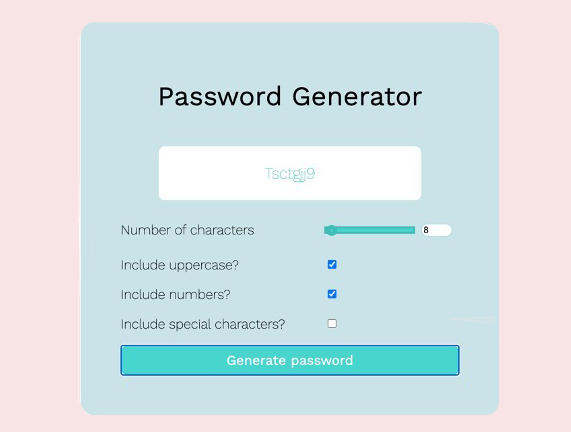
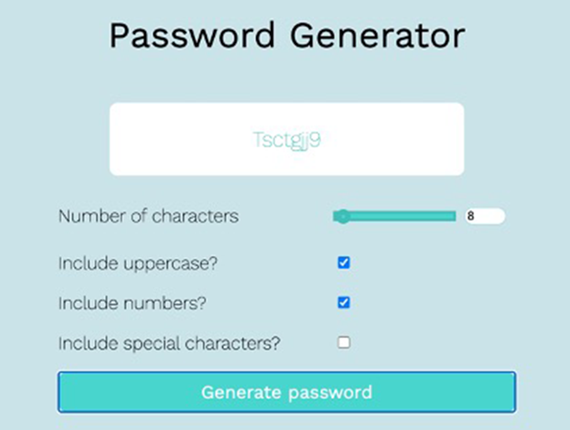
files: Add README generator to list of GitHub projects. style: Add subtle shadow to image tiles on GitHub and Tech Writing pages. Make other design tweaks, such as changing max height to accommodate text overflow.

diff --git a/github.html b/github.html
@@ -91,10 +91,10 @@
 			<div class="row">
 				<div class="col-sm-4">
 					<p>
-						<a href="https://melissakinsey.github.io/Quarantinis/">
+						<a href="[YouTube Demo](https://youtu.be/GyL4_CRJC34)">
 							<img
 								src="assets/quarantinis.png"
-								class="img-responsive"
+								class="img-blue img-responsive"
 								style="width: 100%"
 								alt="Screenshot of Quarantinis website"
 							/>Quarantinis
@@ -106,7 +106,7 @@
 						<a href="https://melissakinsey.github.io/weather-api/"
 							><img
 								src="assets/weather-api-dashboard.png"
-								class="img-responsive"
+								class="img-pink img-responsive"
 								style="width: 100%"
 								alt="Screenshot of weather dashboard"
 							/>Weather Dashboard
@@ -119,13 +119,55 @@
 							href="https://melissakinsey.github.io/password-generator/"
 							><img
 								src="assets/password-generator.png"
-								class="img-responsive"
+								class="img-blue img-responsive"
 								style="width: 100%"
 								alt="Screenshot of password generator"
 							/>Password Generator
 						</a>
 					</p>
 				</div>
+			</div>
+		</div>
+		<!--CONTAINER-3-->
+		<div class="container-fluid bg-3 text-center">
+			<div class="row">
+				<div class="col-sm-4">
+					<p>
+						<a href="samples/README-sample.md">
+							<img
+								src="assets/readme-generator.png"
+								class="img-blue img-responsive"
+								style="width: 100%"
+								alt="Screenshot of a README document"
+							/>README Generator
+						</a>
+					</p>
+				</div>
+				<!-- <div class="col-sm-4">
+					<p>
+						<a href="""
+							><img
+								src="assets/"
+								class="img-responsive"
+								style="width: 100%"
+								alt=""
+							/>Name of App
+						</a>
+					</p>
+				</div>
+				<div class="col-sm-4">
+					<p>
+						<a
+							href="""
+							><img
+								src="assets/"
+								class="img-responsive"
+								style="width: 100%"
+								alt=""
+							/>Name of App
+						</a>
+					</p>
+				</div> -->
 			</div>
 		</div>
 

diff --git a/tech.html b/tech.html
@@ -30,8 +30,7 @@
 	rel="shortcut icon"
 	type="image/png"
 	img
-	src="assets/piggy-bank-favicon.png"
-	/>
+	src="assets/piggy-bank-favicon.png"/>
 	<!--Viewport Dimensions-->
 	<meta name="viewport" content="width=device-width, initial-scale=1.0" />
 	
@@ -64,7 +63,7 @@
 						<a href="samples/ordering-process.pdf">
 							<img
 							src="assets/ordering-process-screenshot.png"
-							class="img-responsive"
+							class="img-pink img-responsive"
 							style="width: 100%"
 							alt="Steps in the ordering process"
 							/>Steps in the Ordering Process
@@ -76,7 +75,7 @@
 						<a href="samples/authentication-authorization.pdf"
 						><img
 						src="assets/Oauth-screenshot.png"
-						class="img-responsive"
+						class="img-blue img-responsive"
 						style="width: 100%"
 						alt="OAuth process diagram"
 						/>Authentication and Authorization
@@ -88,7 +87,7 @@
 					<a href="samples/products-discounts.pdf"
 					><img
 					src="assets/prices-screenshot.png"
-					class="img-responsive"
+					class="img-blue img-responsive"
 					style="width: 100%"
 					alt="Excerpt from writing sample"
 					/>Products and Discounts
@@ -107,7 +106,7 @@
 				<a href="samples/Quarantinis-README.md">
 					<img
 					src="assets/quarantinis-readme.png"
-					class="img-responsive"
+					class="img-blue img-responsive"
 					style="width: 100%"
 					alt="Screenshot of Quarantinis website"
 					/>Quarantinis README.md
@@ -119,7 +118,7 @@
 				<a href="samples/documentation-plan.pdf"
 				><img
 				src="assets/doc-plan.png"
-				class="img-responsive"
+				class="img-blue img-responsive"
 				style="width: 100%"
 				alt="Vintage farming field guides"
 				/>Digital Farming API Doc Plan
@@ -131,7 +130,7 @@
 			<a href="samples/rest-apis.pdf"
 			><img
 			src="assets/yaml.png"
-			class="img-responsive"
+			class="img-pink img-responsive"
 			style="width: 100%"
 			alt="Screenshot of password generator"
 			/>What Is a REST API, Anyway?

diff --git a/style.css b/style.css
@@ -1,6 +1,6 @@
 body {
 	height: 100%;
-	min-height: 1000px;
+	min-height: 1200px;
 	min-width: 400px;
 	margin-right: -10px;
 	margin-left: -10px;
@@ -151,25 +151,23 @@ div.jumbotron {
 }
 
 div.jumbotron#portfolio {
-	max-height: 250px;
 	padding-top: 3%;
 	padding-bottom: 3%;
 }
 
 p {
 	font-family: "Red Rose", cursive;
-	line-height: 1em;
+	line-height: 1.25em;
 	color: black;
 	font-size: 1rem;
 	max-width: 400px;
-	max-height: 350px;
 	align-content: center;
 	text-align: center;
 	margin: 0px 0px 0px 0px;
 }
 
 div.jumbotron#portfolio p {
-	line-height: 1.5rem;
+	line-height: 1.25rem;
 }
 
 p#jumbotron {
@@ -177,6 +175,7 @@ p#jumbotron {
 	align-items: center;
 	margin-bottom: 0;
 }
+
 div.jumbotron {
 	font-family: "Red Rose", cursive;
 	background-color: #f8e4e4;
@@ -215,16 +214,20 @@ div.piggy {
 }
 
 img {
-	padding-top: 0.25px;
-	padding-bottom: 2rem;
 	border-radius: 35px 35px 35px 35px;
 }
 
 img.img-responsive {
-	padding: 0.25rem 0rem 0.75rem 0rem;
-	border-radius: 35px 35px 35px 35px;
 	margin-bottom: 1rem;
-	max-height: 50%;
+	border-radius: 35px 35px 35px 35px;
+}
+
+img.img-blue {
+	filter: drop-shadow(0 0 0.15rem #a0d6c3);
+}
+
+img.img-pink {
+	filter: drop-shadow(0 0 0.15rem #bc8e8e);
 }
 
 #bank {

diff --git a/samples/README-sample.md b/samples/README-sample.md
@@ -1,0 +1,80 @@
+
+	
+![readme-header](assets/readme-header.png)
+	
+[![stars - readme-generator](https://img.shields.io/github/stars/melissakinsey/readme-generator?style=social)](https://github.com/melissakinsey/readme-generator)
+[![forks - readme-generator](https://img.shields.io/github/forks/melissakinsey/readme-generator?style=social)](https://github.com/melissakinsey/readme-generator)
+
+[![melissakinsey - readme-generator](https://img.shields.io/static/v1?label=melissakinsey&message=readme-generator&color=blue&logo=github)](https://github.com/melissakinsey/readme-generator)
+<div align="center">
+</div>
+
+[Released under ![License - MIT](https://img.shields.io/badge/License-MIT-blue)](#license) by [@melissakinsey](https://github.com/melissakinsey).	
+	
+* [Description](#Description)
+* [User Story](#User_Story)
+* [Installation](#Installation) 
+* [Usage](#Usage)
+* [Features](#Features)
+* [Technical Specs](#Technical_Specs)
+* [Tests](#Tests)
+* [Contributors](#Contributors)
+* [Lessons Learned](#Lessons_Learned)
+* [Image Credits](#Image_Credits)
+* [Fonts](#Fonts)
+* [Questions](#Questions)
+	
+# DESCRIPTION
+Why reinvent the wheel? This app lets you generate prefilled README.md documents. Just generate a new README, customize for your project, et voilà! Your README is ready to roll.
+
+## Project Repo 
+[Readme Generator Repo](https://github.com/melissakinsey/readme-generator)
+	
+## GitHub Pages 
+Not applicable for this project.
+	
+## Screencast
+[YouTube Demo](https://youtu.be/GyL4_CRJC34)
+	
+# USER STORY
+*AS A* boot camp student whose brain has fallen into a sinkhole, *I WANT TO* automate creation of my README documents *SO I CAN* save time and avoid a catastrophic yet glorious mental collapse.
+	
+# INSTALLATION
+This app is installed by opening Terminal and typing _node index.js_. You'll then be asked to populate the form by answering a series of questions. When you're finished, a new README.md file will appear in the sidebar of your text editor.
+	
+# USAGE
+Open your new README document and save it with your project files. As your project evolves, you can further customize the README by adding features, credits, and so on.
+	
+# FEATURES
+This README generator has a few swell features: 
+* Badges
+  - GitHub "Stars" and "Forks" badges
+  - A GitHub repo badge
+  - An MIT license badge
+* Space to describe the user story
+* Space to list features and technical specs
+* Space to discuss lessons learned while building the app
+
+# TECHNICAL SPECS
+In building this app, I used node JS, npm inquirer, JSON package files, and a badges generator. The app runs on the command line and generates Markdown files.
+	
+# TESTS
+I tested the app in VS code and used the console to check for errors. 
+	
+# LESSONS LEARNED 
+* *Time management.* Even a seemingly easy project takes much longer than you think it will.
+* *Creativity.* With each technology we're exposed to in boot camp, we can get as fancy as we like—or have time for. There's always another cool feature you'd like to add if you had the time to keep working on the project. It's like making rounds in med school. We learn just enough to learn what the technology is for and whether we like using it. Then it's time to move on to the next app or language. 
+* *Technology*: 
+  - Built a simple app with a command line interface
+  - Worked in a runtime environment 
+  - Learned about task automation
+
+# CONTRIBUTIONS
+This was an individual project, but I'd like to thank our new TA, Christian Pinto, who hopped online to help me on a Sunday afternoon.
+	
+## IMAGE CREDITS
+* Header adapted from image by filo/iStockPhoto.  
+* Badges created using Michael Currin's nifty [Badge Generator](https://michaelcurrin.github.io/badge-generator/#/repo)
+
+## QUESTIONS
+To ask questions or contribute project feedback, ping me @melissakinsey (GitHub), @KinseyMelissa (Twitter) or kinsey.melissa@gmail.com.
